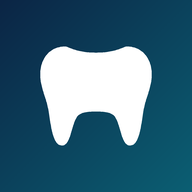
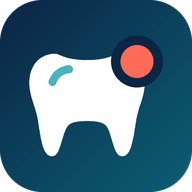
Add files via upload

diff --git a/index.html b/index.html
@@ -5,8 +5,9 @@
 <meta name="viewport" content="width=device-width, initial-scale=1, viewport-fit=cover">
 <meta name="theme-color" content="#0B2545">
 <link rel="manifest" href="manifest.webmanifest">
-<link rel="icon" href="icon-192.png">
-<link rel="apple-touch-icon" href="icon-192.png">
+<link rel="icon" type="image/svg+xml" href="favicon.svg">
+<link rel="icon" type="image/png" sizes="32x32" href="favicon-32.png">
+<link rel="apple-touch-icon" href="apple-touch-icon.png">
 <meta name="apple-mobile-web-app-capable" content="yes">
 <meta name="mobile-web-app-capable" content="yes">
 <meta name="apple-mobile-web-app-title" content="DentAviso">
@@ -127,7 +128,7 @@ function saludo(){var h=new Date().getHours();return h<12?'Buenos días':h<19?'B
 async function init(){var r=await sb.auth.getSession();if(r.data.session)load();else showLogin()}
 function showLogin(msg){
   document.body.classList.add('auth');$('tabs').style.display='none';
-  $('app').innerHTML='<div class="login"><div class="logo">'+ic('tooth')+'</div><h1>DentAviso</h1><p style="opacity:.85;margin:6px 0 0">Recordatorios para tu clínica dental</p>'+
+  $('app').innerHTML='<div class="login"><img src="logo-horizontal-blanco.svg" alt="DentAviso" style="height:64px;max-width:100%"><p style="opacity:.85;margin:10px 0 0">Recordatorios para tu clínica dental</p>'+
   '<div class="card"><label for="em">Correo</label><input id="em" type="email" autocomplete="username">'+
   '<label for="pw">Contraseña</label><input id="pw" type="password" autocomplete="current-password">'+
   '<button class="btn full" id="bl" onclick="login()">Entrar</button>'+(msg?'<p style="color:var(--bad);margin:10px 0 0">'+esc(msg)+'</p>':'')+'</div></div>';
@@ -141,7 +142,7 @@ async function login(){
 async function salir(){await sb.auth.signOut();S={neg:null,pac:[],tra:[],cit:[],dia:'',view:'home',sel:null,q:'',f:'todos'};showLogin()}
 function pantallaClave(msg){
   document.body.classList.add('auth');$('tabs').style.display='none';
-  $('app').innerHTML='<div class="login"><div class="logo">'+ic('tooth')+'</div><h1>Elige tu contraseña</h1><p style="opacity:.85;margin:6px 0 0">Es tu primer ingreso. Crea una contraseña propia para tu clínica.</p>'+
+  $('app').innerHTML='<div class="login"><img src="logo-horizontal-blanco.svg" alt="DentAviso" style="height:48px;max-width:100%;margin-bottom:16px"><h1>Elige tu contraseña</h1><p style="opacity:.85;margin:6px 0 0">Es tu primer ingreso. Crea una contraseña propia para tu clínica.</p>'+
   '<div class="card"><label for="p1">Nueva contraseña (mínimo 8 caracteres)</label><input id="p1" type="password" autocomplete="new-password">'+
   '<label for="p2">Repite la contraseña</label><input id="p2" type="password" autocomplete="new-password">'+
   '<button class="btn full" id="bp" onclick="guardarClave()">Guardar y entrar</button>'+
@@ -197,7 +198,7 @@ function vHome(){
   var avis=S.tra.filter(function(t){return t.aviso_enviado}).length;
   var pend=cf.filter(function(t){return dias(t.proximo_control)<=7&&!t.aviso_enviado}).sort(function(a,b){return dias(a.proximo_control)-dias(b.proximo_control)});
   var fecha=new Date().toLocaleDateString('es-EC',{weekday:'long',day:'numeric',month:'long'});
-  var h='<div class="hero"><svg class="bg" viewBox="0 0 24 24">'+IC.tooth+'</svg>'+
+  var h='<div class="hero"><svg class="bg" viewBox="0 0 24 24">'+IC.tooth+'</svg><img src="logo-horizontal-blanco.svg" alt="DentAviso" style="height:30px;display:block;margin-bottom:14px">'+
    '<span class="pill">'+(S.neg.estado==='prueba'?'Prueba hasta el '+fmt(S.neg.fin_prueba):'Plan activo')+'</span>'+
    '<small>'+saludo()+' · '+esc(fecha)+'</small><h1>'+esc(S.neg.nombre)+'</h1>'+
    '<div class="big">'+pend.length+'</div><div class="lbl">'+(pend.length===1?'paciente por avisar':'pacientes por avisar')+'</div>'+

diff --git a/admin.html b/admin.html
@@ -5,6 +5,9 @@
 <meta name="viewport" content="width=device-width, initial-scale=1, viewport-fit=cover">
 <meta name="robots" content="noindex,nofollow">
 <meta name="theme-color" content="#0B2545">
+<link rel="icon" type="image/svg+xml" href="favicon.svg">
+<link rel="icon" type="image/png" sizes="32x32" href="favicon-32.png">
+<link rel="apple-touch-icon" href="apple-touch-icon.png">
 <title>DentAviso · Administración</title>
 <link href="https://fonts.googleapis.com/css2?family=Plus+Jakarta+Sans:wght@400;600;800&display=swap" rel="stylesheet">
 <style>
@@ -95,7 +98,7 @@ function render(){
     if(S.f==='susp')return n.estado==='suspendido'||vencida(n);
     if(S.f==='porv')return n.estado==='prueba'&&d!==null&&d>=0&&d<=7;return true});
   var ch=[['todos','Todas'],['prueba','En prueba'],['activo','Activas'],['porv','Por vencer'],['susp','Suspendidas']].map(function(c){return '<button class="chip" aria-pressed="'+(S.f===c[0])+'" onclick="S.f=\''+c[0]+'\';render()">'+c[1]+'</button>'}).join('');
-  var h='<div class="hero"><small>DentAviso</small><h1>Panel de administración</h1><div class="actions" style="margin:0"><button class="btn white" onclick="formNueva()">+ Nueva clínica</button><a class="btn glass" href="/">Ir a la app</a><button class="btn glass" onclick="cargar()">Actualizar</button></div></div>'+
+  var h='<div class="hero"><img src="logo-horizontal-blanco.svg" alt="DentAviso" style="height:30px;display:block;margin-bottom:12px"><h1>Panel de administración</h1><div class="actions" style="margin:0"><button class="btn white" onclick="formNueva()">+ Nueva clínica</button><a class="btn glass" href="/">Ir a la app</a><button class="btn glass" onclick="cargar()">Actualizar</button></div></div>'+
    '<div class="stats"><div class="stat"><b>'+R.length+'</b><span>Clínicas</span></div><div class="stat"><b>'+enP+'</b><span>En prueba</span></div><div class="stat"><b>'+act+'</b><span>Activas</span></div><div class="stat"><b>'+sus+'</b><span>Suspendidas o vencidas</span></div></div>'+
    '<div class="chips">'+ch+'</div>';
   if(!lista.length)h+='<div class="empty">No hay clínicas en esta vista.</div>';

diff --git a/sw.js b/sw.js
@@ -1,7 +1,7 @@
 // Service worker mínimo: siempre intenta la red primero (así las actualizaciones llegan al instante)
 // y solo usa la copia guardada si no hay conexión. No toca las llamadas a Supabase.
-var CACHE = 'dentaviso-v1';
-var FILES = ['./', './index.html', './config.js', './manifest.webmanifest', './icon-192.png', './icon-512.png'];
+var CACHE = 'dentaviso-v2';
+var FILES = ['./', './index.html', './config.js', './manifest.webmanifest', './icon-192.png', './icon-512.png', './icon-512-maskable.png', './logo-horizontal-blanco.svg', './simbolo-blanco.svg', './favicon.svg'];
 self.addEventListener('install', function (e) {
   e.waitUntil(caches.open(CACHE).then(function (c) { return c.addAll(FILES); }));
   self.skipWaiting();
